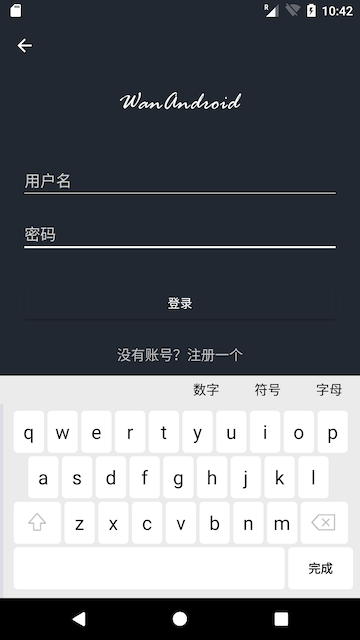
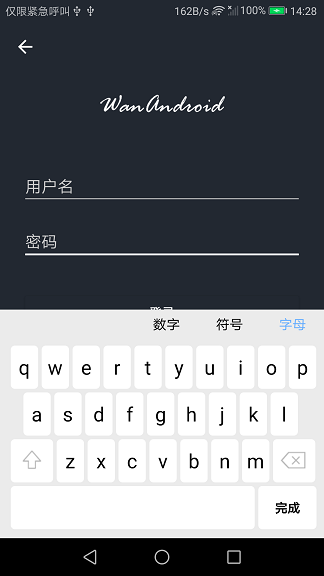
1. 提交新截图

diff --git a/lazykeyboard/src/main/java/com/gs/keyboard/SecurityKeyboard.java b/lazykeyboard/src/main/java/com/gs/keyboard/SecurityKeyboard.java
@@ -159,7 +159,7 @@ public class SecurityKeyboard extends PopupWindow {
 
             @Override
             public void onClick(View arg0) {
-                switchKeyboardType(KeyboardType.LETTER,
+                switchKeyboardType(KeyboardType.NUMBER,
                         configuration.getSelectedColor(),
                         configuration.getUnselectedColor());
                 randomNumbers();
@@ -170,7 +170,7 @@ public class SecurityKeyboard extends PopupWindow {
 
             @Override
             public void onClick(View arg0) {
-                switchKeyboardType(KeyboardType.NUMBER,
+                switchKeyboardType(KeyboardType.LETTER,
                         configuration.getSelectedColor(),
                         configuration.getUnselectedColor());
                 keyboardView.setKeyboard(mKeyboardLetter);

diff --git a/app/src/main/java/cn/onlyloveyd/lazybear/LazyActivity.java b/app/src/main/java/cn/onlyloveyd/lazybear/LazyActivity.java
@@ -19,8 +19,7 @@ public class LazyActivity extends AppCompatActivity {
         super.onCreate(savedInstanceState);
         ActivityLazyBinding binding = DataBindingUtil.setContentView(this, R.layout.activity_lazy);
         SecurityConfigure configure = new SecurityConfigure()
-                .setDefaultKeyboardType(KeyboardType.NUMBER)
-                .setLetterEnabled(false);
+                .setDefaultKeyboardType(KeyboardType.NUMBER);
         securityKeyboard = new SecurityKeyboard(binding.loginLayout, configure);
     }
 }

diff --git a/README.md b/README.md
@@ -16,7 +16,7 @@ allprojects {
 **Step 2.** Add the dependency
 ```groovy
 dependencies {
-    implementation 'com.github.onlyloveyd:LazyKeyboard:v1.1'
+    implementation 'com.github.onlyloveyd:LazyKeyboard:v1.2'
 }
 ```
 
